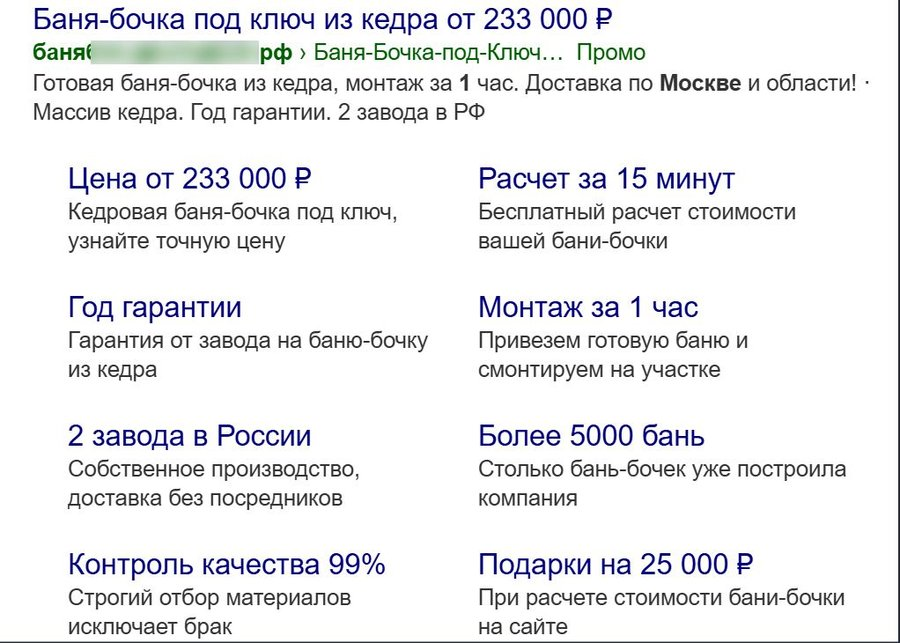
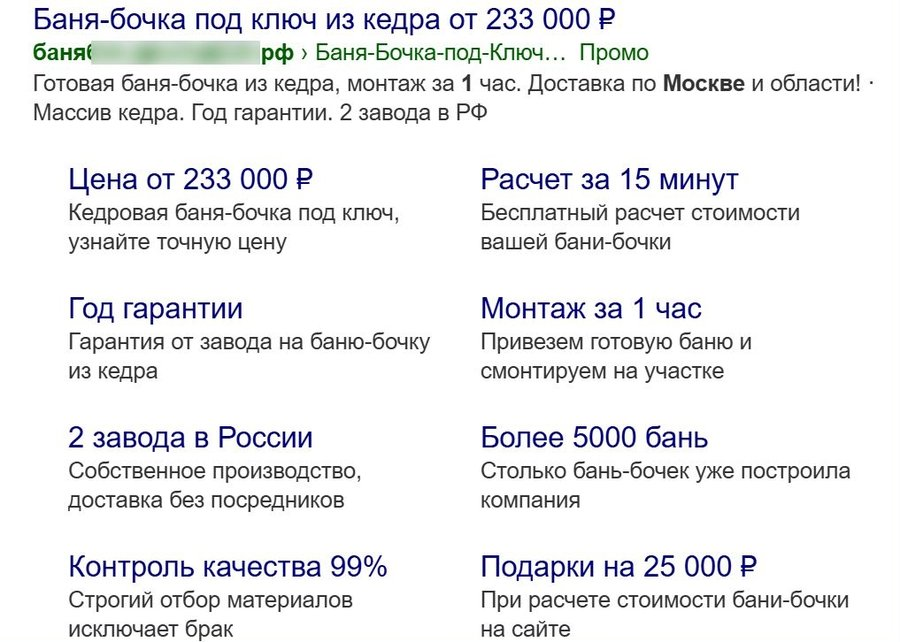
Кейс бань-бочек: обновлён скриншот объявления в поиске

diff --git a/cases/bani-bochki-mo.html b/cases/bani-bochki-mo.html
@@ -186,7 +186,7 @@
       <p style="font-size:16px;line-height:1.7;color:#5C574E;margin:0;"><strong style="color:#171512;">3. Чистка поиска.</strong> Убрал из поиска трафик про баню из бруса, капсульную и мобильную баню. Доля нецелевого расхода упала примерно с 20% до 5–7%.</p>
 
       <figure style="margin:4px 0;">
-        <img src="../images/cases/bani-bochki/search-ad.jpg" alt="Объявление в поиске Яндекса по запросу «баня-бочка под ключ»" width="900" height="643" style="width:100%;max-width:640px;height:auto;display:block;margin:0 auto;border-radius:16px;border:1px solid #ECE7DE;box-shadow:0 8px 20px rgba(23,21,18,0.06);">
+        <img src="../images/cases/bani-bochki/search-ad.jpg" alt="Объявление в поиске Яндекса по запросу «баня-бочка под ключ»" width="900" height="642" style="width:100%;max-width:640px;height:auto;display:block;margin:0 auto;border-radius:16px;border:1px solid #ECE7DE;box-shadow:0 8px 20px rgba(23,21,18,0.06);">
         <figcaption style="font-size:13px;color:#897F73;line-height:1.5;margin:12px 0 0;text-align:center;">Одно из объявлений в поиске</figcaption>
       </figure>
 
